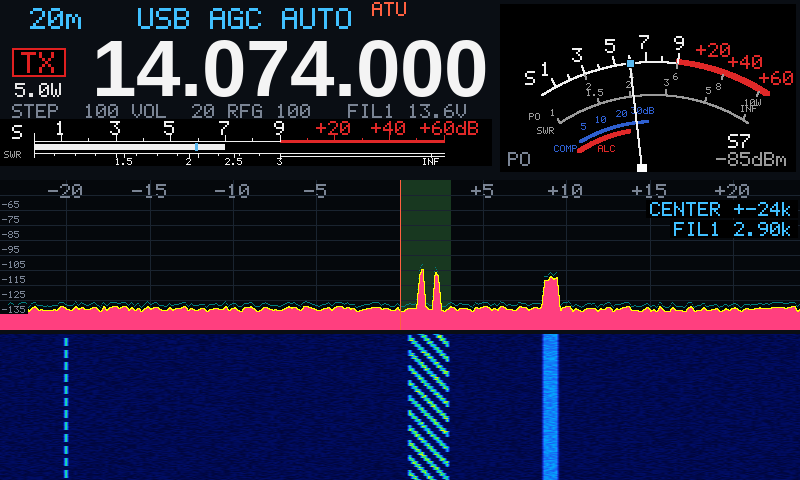
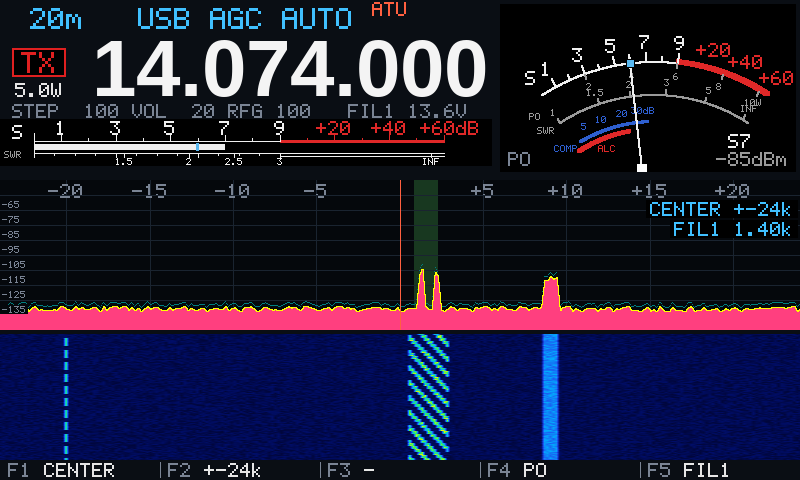
x6100_trx: F1-F5 tags along the bottom edge

Changed region(s): [[0.0, 0.9375, 1.0, 1.0], [0.5, 0.375, 0.5625, 0.6562], [0.9062, 0.4688, 0.9688, 0.5]]

diff --git a/tools/x6100_trx.c b/tools/x6100_trx.c
@@ -1021,6 +1021,8 @@ static bool on_knob(rx_t *rx, input_t in, int value)
 #define SPEC_Y		180
 #define SPEC_H		150
 #define WF_Y		(SPEC_Y + SPEC_H + 4)
+#define TAG_H		20		/* F1-F5 tags along the bottom edge */
+#define WF_H(lcd)	((lcd)->h - WF_Y - TAG_H)
 #define DISP_MS		70
 #define SPEC_DB_MIN	-130.0f
 #define SPEC_DB_MAX	-30.0f
@@ -1991,6 +1993,41 @@ static void draw_screen(screen_t *scr, const rx_t *rx, bool new_line)
 	x6100_lcd_text(lcd, INFO_COL_FIL, INFO_Y, 2, s, SCR_DIM);
 
 	//
+	// F1-F5 tags along the bottom, one 160 px cell above each key: what the key
+	// does now (scope mode, span, -, TX meter, filter)
+	//
+	{
+		static const char *scope_names[4] = { "CENTER", "SCRL-C", "FIX", "SCRL-F" };
+		static const char *meter_tags[3] = { "PO", "SWR", "ALC" };
+		const int cw = W / 5, y = lcd->h - TAG_H;
+		char tag[5][16];
+
+		snprintf(tag[0], sizeof(tag[0]), "%s", scope_names[rx->scope]);
+
+		if (rx->span % 2000 == 0)
+			snprintf(tag[1], sizeof(tag[1]), "+-%dk", rx->span / 2000);
+		else
+			snprintf(tag[1], sizeof(tag[1]), "+-%d.%dk", rx->span / 2000, rx->span % 2000 / 200);
+
+		snprintf(tag[2], sizeof(tag[2]), "-");
+		snprintf(tag[3], sizeof(tag[3]), "%s", meter_tags[rx->meter]);
+		snprintf(tag[4], sizeof(tag[4]), "FIL%d", rx->fil + 1);
+
+		x6100_lcd_fill(lcd, 0, y, W, TAG_H, SCR_BG);
+
+		for (int i = 0; i < 5; i++) {
+			int x = i * cw;
+
+			snprintf(s, sizeof(s), "F%d", i + 1);
+			x6100_lcd_text(lcd, x + 8, y + 3, 2, s, SCR_DIM);
+			x6100_lcd_text(lcd, x + 8 + x6100_lcd_text_width("F1 ", 2), y + 3, 2, tag[i], SCR_FG);
+
+			if (i > 0)
+				x6100_lcd_fill(lcd, x, y + 2, 1, TAG_H - 4, SCR_DIM);
+		}
+	}
+
+	//
 	// Meters: S in RX; Po (needle, bar) and SWR in TX, marker on the ALC arc
 	// while the ALC is working, else on Po
 	//
@@ -2069,7 +2106,7 @@ static void draw_screen(screen_t *scr, const rx_t *rx, bool new_line)
 	// window shifts it by the same number of pixels, so it stays frequency aligned
 	//
 	if (rx->scope != scr->wf_scope || rx->span != scr->wf_span) {
-		x6100_lcd_fill(lcd, 0, WF_Y, W, lcd->h - WF_Y, 0x000000);
+		x6100_lcd_fill(lcd, 0, WF_Y, W, WF_H(lcd), 0x000000);
 		scr->wf_scope = rx->scope;
 		scr->wf_span = rx->span;
 		scr->wf_ref = (double) v.lo;
@@ -2077,7 +2114,7 @@ static void draw_screen(screen_t *scr, const rx_t *rx, bool new_line)
 		int dx = (int) lround((scr->wf_ref - (double) v.lo) * W / v.span);
 
 		if (dx != 0) {
-			wf_shift(lcd, WF_Y, lcd->h - WF_Y, dx);
+			wf_shift(lcd, WF_Y, WF_H(lcd), dx);
 			scr->wf_ref -= (double) dx * v.span / W;
 		}
 	} else {
@@ -2245,7 +2282,7 @@ static void draw_screen(screen_t *scr, const rx_t *rx, bool new_line)
 	// Waterfall, newest line on top; no data outside the IQ span stays black
 	//
 	if (new_line) {
-		x6100_lcd_scroll_down(lcd, WF_Y, lcd->h - WF_Y);
+		x6100_lcd_scroll_down(lcd, WF_Y, WF_H(lcd));
 
 		for (int x = 0; x < W; x++) {
 			uint32_t c = spec_index(&v, x) < 0 ? 0x000000

diff --git a/docs/x6100_trx_quickref.md b/docs/x6100_trx_quickref.md
@@ -80,6 +80,8 @@ Saved values override the defaults; MFK long (DEF) restores them.
 - STEP and status fields right-aligned, fixed width
 - S-meter: S0-S9, then S9+10 .. S9+60 in rounded 10 dB steps; dBm line exact
 - AGC default AUTO; AM / FM SLOW (AUTO squashes AM)
+- F1-F5 tags along the bottom edge show what each key does now (scope mode, span, -, TX meter, filter)
+- OVF (red, top left of the dial): flow IQ at its clip level
 
 ## Console (ssh)
 
